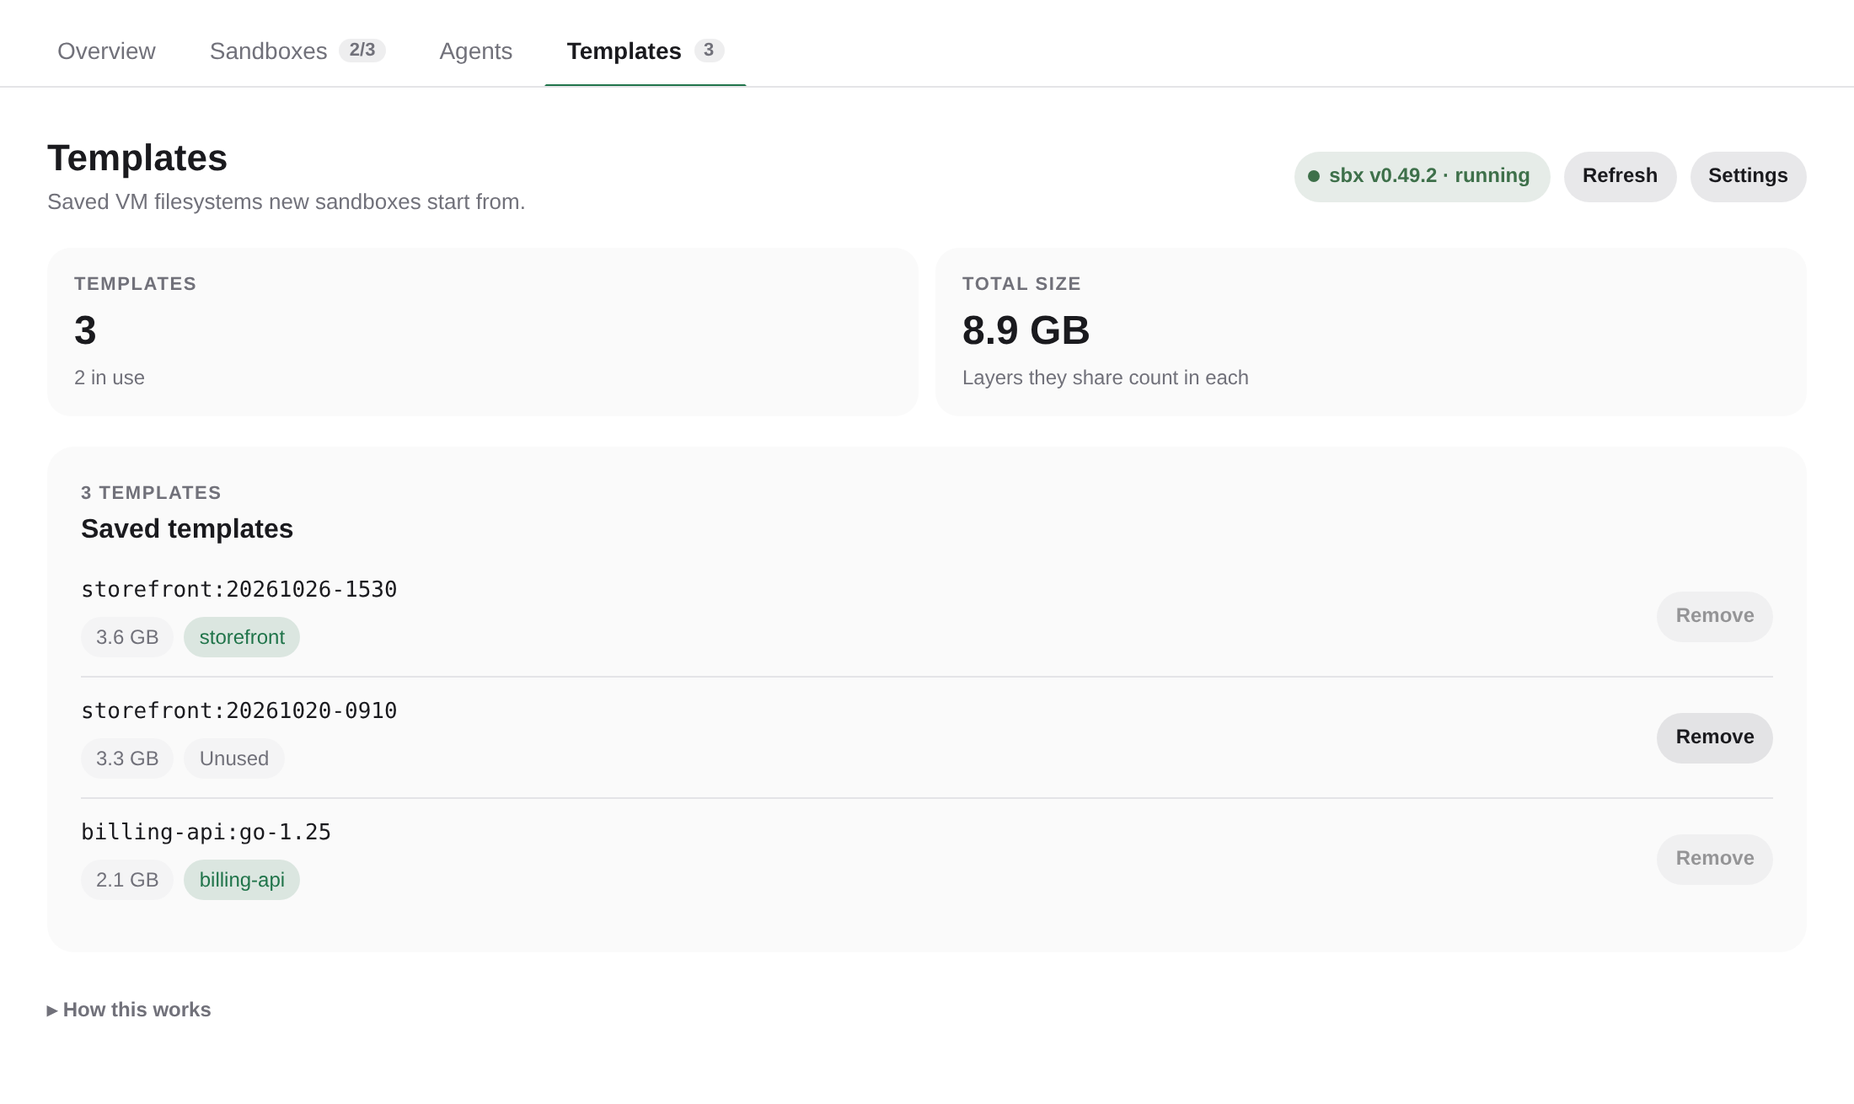
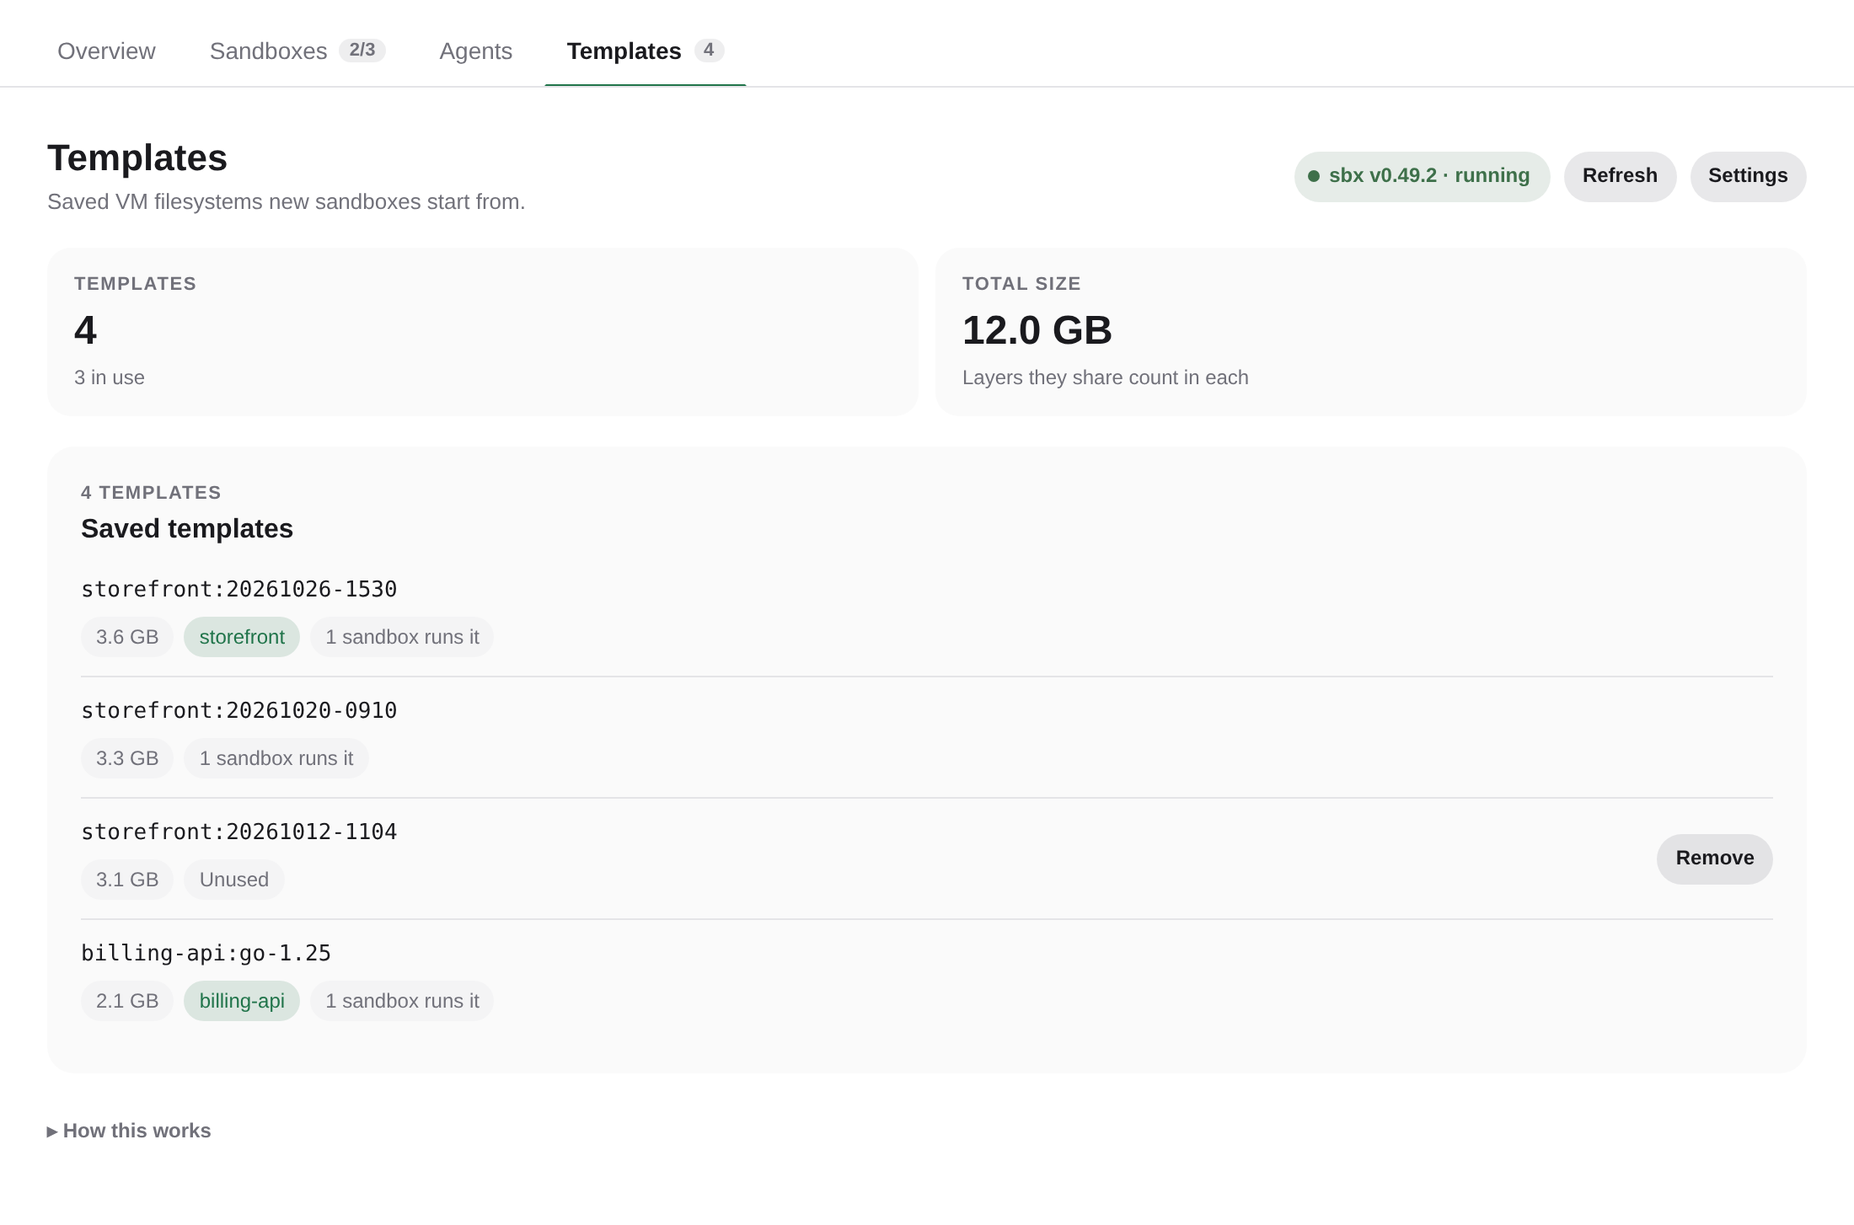
Remove old template versions from the Template tab
Each template nothing uses gets a Remove button in the workspace panel's
Template tab and in the Docker Sandboxes screen's Templates tab. A template
is in use when a setting picks it or an existing sandbox was created from
it: templates.list reports those sandboxes, and template.remove now refuses
them too, since what sbx does to a sandbox whose template is gone is
unverified.

diff --git a/client/panel-template.tsx b/client/panel-template.tsx
@@ -28,6 +28,7 @@ import {
   useAwaitOperation,
   useInvalidateAll,
   useOpenTerminal,
+  useRemoveTemplate,
   useRepoSettings,
   useSandboxAction,
   useSaveTemplate,
@@ -46,37 +47,57 @@ function defaultTag(repoName: string): string {
   return `${slug}:${stamp}`;
 }
 
-/** Who picks a template: the default for every repository, and repositories of their own. */
-function usage(users: readonly string[]): string {
-  const repos = users.filter((user) => user !== "default").length;
+type TemplateSummary = NonNullable<ReturnType<typeof useTemplates>["data"]>["templates"][number];
+
+/** What keeps a template: settings that pick it, and sandboxes created from it. */
+function usage(template: TemplateSummary, data: PanelTabProps["data"]): string {
+  const otherRepos = template.users.filter((user) => user !== "default" && user !== data.repoKey).length;
+  const otherSandboxes = template.sandboxes.filter((name) => name !== data.name).length;
   const parts = [
-    users.includes("default") ? "the default" : null,
-    repos > 0 ? `used by ${plural(repos, "repository", "repositories")}` : null,
+    template.users.includes(data.repoKey) ? "used by this repository" : null,
+    template.users.includes("default") ? "the default" : null,
+    otherRepos > 0 ? `used by ${plural(otherRepos, "other repository", "other repositories")}` : null,
+    template.sandboxes.includes(data.name) ? "this sandbox runs it" : null,
+    otherSandboxes > 0
+      ? `${plural(otherSandboxes, "other sandbox", "other sandboxes")} ${otherSandboxes === 1 ? "runs" : "run"} it`
+      : null,
   ].filter(Boolean);
-  return parts.length > 0 ? parts.join(", ") : "unused";
+  return parts.length > 0 ? parts.join(" · ") : "unused";
 }
+
+/** Nothing picks it and no sandbox runs it: the server removes only those. */
+const removable = (template: TemplateSummary) => template.users.length === 0 && template.sandboxes.length === 0;
 
 export function TemplateTab({ data, theme, compact, header, workspaceId, directory }: PanelTabProps) {
   const templates = useTemplates();
+  const remove = useRemoveTemplate();
   const { repo, save, settings } = useRepoSettings(data.repoKey);
   const [selectError, setSelectError] = useState<string | null>(null);
   const globalTemplate = settings.status === "ready" ? settings.values.template : "";
   const custom = (templates.data?.templates ?? []).filter((template) => !template.base);
-  const choices = [
+  const choices: { value: string; title: string; detail: string; removable: boolean }[] = [
     {
       value: "",
       title: globalTemplate ? `Default · ${shortRef(globalTemplate)}` : "Default · sbx image",
       detail: "What the plugin settings pick for every repository",
+      removable: false,
     },
     ...custom.map((template) => ({
       value: template.ref,
       title: shortRef(template.ref),
-      detail: [formatBytes(template.sizeBytes), usage(template.users)].join(" · "),
+      detail: [formatBytes(template.sizeBytes), usage(template, data)].join(" · "),
+      removable: removable(template),
     })),
   ];
   if (repo?.template && !choices.some((choice) => choice.value === repo.template)) {
-    choices.push({ value: repo.template, title: shortRef(repo.template), detail: "Missing: sbx no longer has it" });
+    choices.push({
+      value: repo.template,
+      title: shortRef(repo.template),
+      detail: "Missing: sbx no longer has it",
+      removable: false,
+    });
   }
+  const keptBySandbox = custom.some((template) => template.users.length === 0 && template.sandboxes.length > 0);
 
   return (
     <Frame
@@ -89,6 +110,7 @@ export function TemplateTab({ data, theme, compact, header, workspaceId, directo
         "A template is a saved VM filesystem: the tools and CLIs your agents need. It carries the CLIs of the agents it was prepared with, so a workspace running Claude and Codex needs a template with both.",
         "Templates do not include the images of the VM's own Docker: each new sandbox pulls them again.",
         "Every worktree of the repository shares its template.",
+        "Remove appears on templates nothing uses: no setting picks them and no sandbox was created from them.",
       ]}
     >
       <Section theme={theme} overline="Every worktree of the repository" title="Template for this repository">
@@ -118,6 +140,19 @@ export function TemplateTab({ data, theme, compact, header, workspaceId, directo
                 title={choice.title}
                 detail={choice.detail}
                 selected={repo.template === choice.value}
+                action={
+                  choice.removable ? (
+                    <ConfirmButton
+                      theme={theme}
+                      small
+                      label="Remove"
+                      confirmLabel="Confirm remove"
+                      busy={remove.isPending && remove.variables === choice.value}
+                      disabled={remove.isPending}
+                      onConfirm={() => remove.mutate(choice.value)}
+                    />
+                  ) : null
+                }
                 onPress={() => {
                   if (repo.template === choice.value) return;
                   setSelectError(null);
@@ -127,9 +162,19 @@ export function TemplateTab({ data, theme, compact, header, workspaceId, directo
             ))}
           </View>
         ) : null}
+        {keptBySandbox ? (
+          <Note theme={theme}>
+            A template a sandbox was created from can be removed once that sandbox is recreated or removed.
+          </Note>
+        ) : null}
         {templates.error ? (
           <Note theme={theme} tone="danger">
             {errorMessage(templates.error)}
+          </Note>
+        ) : null}
+        {remove.error ? (
+          <Note theme={theme} tone="danger">
+            {errorMessage(remove.error)}
           </Note>
         ) : null}
         {selectError ? (

diff --git a/client/sandboxes-screen.tsx b/client/sandboxes-screen.tsx
@@ -236,7 +236,7 @@ export function SandboxesScreen({ theme, layout, openSettings }: SandboxesScreen
               {...header}
               notes={[
                 "Prepare a template from a workspace's Sandbox panel: it opens a shell in a clean sandbox, then saves it.",
-                "A template in use by the default or by a repository cannot be removed: pick another first.",
+                "Remove appears on templates nothing uses. One the default or a repository picks needs another picked first; one a sandbox was created from needs that sandbox recreated or removed.",
               ]}
             >
               <TemplateList
@@ -843,7 +843,7 @@ function TemplateList({
           theme={theme}
           label="Templates"
           value={String(templates.length)}
-          detail={`${templates.filter((template) => template.users.length > 0).length} in use`}
+          detail={`${templates.filter((template) => template.users.length > 0 || template.sandboxes.length > 0).length} in use`}
         />
         <Stat theme={theme} label="Total size" value={formatBytes(total)} detail="Layers they share count in each" />
       </Figures>
@@ -860,30 +860,36 @@ function TemplateList({
               detail={
                 <View style={{ flexDirection: "row", flexWrap: "wrap", gap: 6, marginTop: 4 }}>
                   <Pill theme={theme} label={formatBytes(template.sizeBytes)} />
-                  {template.users.length === 0 ? (
-                    <Pill theme={theme} label="Unused" />
-                  ) : (
-                    template.users.map((user) => (
-                      <Pill
-                        key={user}
-                        theme={theme}
-                        tone="accent"
-                        label={user === "default" ? "Default" : baseName(repoPath(user))}
-                      />
-                    ))
-                  )}
+                  {template.users.map((user) => (
+                    <Pill
+                      key={user}
+                      theme={theme}
+                      tone="accent"
+                      label={user === "default" ? "Default" : baseName(repoPath(user))}
+                    />
+                  ))}
+                  {template.sandboxes.length > 0 ? (
+                    <Pill
+                      theme={theme}
+                      label={`${plural(template.sandboxes.length, "sandbox", "sandboxes")} ${template.sandboxes.length === 1 ? "runs" : "run"} it`}
+                    />
+                  ) : null}
+                  {template.users.length === 0 && template.sandboxes.length === 0 ? <Pill theme={theme} label="Unused" /> : null}
                 </View>
               }
               aside={
-                <ConfirmButton
-                  theme={theme}
-                  small
-                  label="Remove"
-                  confirmLabel="Confirm remove"
-                  busy={remove.isPending && remove.variables === template.ref}
-                  disabled={remove.isPending || template.users.length > 0}
-                  onConfirm={() => remove.mutate(template.ref)}
-                />
+                // Only what nothing uses: no setting picks it and no sandbox runs it.
+                template.users.length === 0 && template.sandboxes.length === 0 ? (
+                  <ConfirmButton
+                    theme={theme}
+                    small
+                    label="Remove"
+                    confirmLabel="Confirm remove"
+                    busy={remove.isPending && remove.variables === template.ref}
+                    disabled={remove.isPending}
+                    onConfirm={() => remove.mutate(template.ref)}
+                  />
+                ) : null
               }
             />
           ))}

diff --git a/server/templates.ts b/server/templates.ts
@@ -8,7 +8,7 @@ import type { PluginPaths } from "./paths";
 import { repoIdentity } from "./repo";
 import { SbxError, assertSandboxName, listSandboxes, removeSandbox, runSbx, runSbxOk, stopSandboxLocked } from "./sbx";
 import { templateFor } from "./spec-builder";
-import { liveLeases, writeSandboxState } from "./state";
+import { liveLeases, readSandboxState, writeSandboxState } from "./state";
 
 export interface TemplateInfo {
   /** `repository:tag` as `sbx template ls` reports it. */
@@ -60,6 +60,20 @@ export function templateUsers(settings: SandboxSettings, ref: string): string[] 
 }
 
 /**
+ * Existing sandboxes created from a template: by the image ID they recorded, else (preparation
+ * sandboxes, older records) by its reference.
+ */
+export function templateSandboxes(paths: PluginPaths, sandboxNames: readonly string[], template: TemplateInfo): string[] {
+  return sandboxNames.filter((name) => {
+    const state = readSandboxState(paths, name);
+    if (!state?.template) return false;
+    return state.templateImageId
+      ? state.templateImageId === template.id
+      : normalizeTemplateRef(state.template) === template.ref;
+  });
+}
+
+/**
  * Saves the sandbox's filesystem as a template in the Paseo instance; returns its reference.
  * sbx saves only a stopped sandbox (it asks to stop a running one, and without a terminal that
  * question fails), so the sandbox is stopped first, shutting its Docker down cleanly. Stopping
@@ -88,9 +102,21 @@ export async function saveTemplate(paths: PluginPaths, name: string, tag: string
 
 const ANSI = /\x1b\[[0-9;?]*[A-Za-z]/g;
 
+/**
+ * Removes a template nothing uses: no setting picks it and no existing sandbox was created from
+ * it. What sbx does to a sandbox whose template is gone is unverified, so the plugin does not try.
+ */
 export async function removeTemplate(paths: PluginPaths, settings: SandboxSettings, ref: string): Promise<void> {
   const users = templateUsers(settings, ref);
   if (users.length > 0) throw new Error(`${ref} is in use (${users.join(", ")}); pick another template there first`);
+  const template = findTemplate(await listTemplates(paths), ref);
+  if (template) {
+    const sandboxes = templateSandboxes(paths, (await listSandboxes(paths)).map((sandbox) => sandbox.name), template);
+    if (sandboxes.length > 0) {
+      const one = sandboxes.length === 1;
+      throw new Error(`${ref} is what ${sandboxes.join(", ")} ${one ? "was" : "were"} created from; recreate or remove ${one ? "it" : "them"} first`);
+    }
+  }
   await runSbxOk(paths, ["template", "rm", "--force", ref], `sbx template rm ${ref}`);
 }
 

diff --git a/tests/operations.test.ts b/tests/operations.test.ts
@@ -12,7 +12,7 @@ import { recreateSandbox } from "../server/recreate";
 import { publishPort, readListeners, unpublishPort } from "../server/ports";
 import { listSandboxes, prepareSandbox, stopSandbox } from "../server/sbx";
 import { buildSpec } from "../server/spec-builder";
-import { processStart, readSandboxState } from "../server/state";
+import { processStart, readSandboxState, writeSandboxState } from "../server/state";
 import { ensureTemplatePrep, finishTemplatePrep, removeTemplate, saveTemplate } from "../server/templates";
 import { installFakeSbx, type FakeSbx } from "./fake-sbx";
 
@@ -238,6 +238,31 @@ describe("templates", () => {
     await expect(removeTemplate(paths, inUse, "docker.io/library/app:v1")).rejects.toThrow("is in use (git:/r/.git)");
     await removeTemplate(paths, sandboxSettingsSchema.parse({}), "docker.io/library/app:v1");
     expect(fake.calls().some((call) => call.args.join(" ") === "template rm --force docker.io/library/app:v1")).toBe(true);
+  });
+
+  it("will not remove a template an existing sandbox was created from", async () => {
+    const working = "paseo-app-0000000a";
+    const prep = "paseo-tpl-app-0000000b";
+    fake.setState({
+      sandboxes: [working, prep],
+      templates: [
+        { id: "abc", repository: "docker.io/library/app", tag: "v1" },
+        { id: "def", repository: "docker.io/library/app", tag: "v2" },
+        { id: "fed", repository: "docker.io/library/app", tag: "v0" },
+      ],
+    });
+    // The working sandbox recorded its image ID; the preparation sandbox only the reference.
+    writeSandboxState(paths, working, { template: "docker.io/library/app:v1", templateImageId: "abc" });
+    writeSandboxState(paths, prep, { kind: "template-prep", template: "app:v2" });
+    // A record left behind by a sandbox that is gone does not count.
+    writeSandboxState(paths, "paseo-app-0000000c", { template: "docker.io/library/app:v0", templateImageId: "fed" });
+    const none = sandboxSettingsSchema.parse({});
+
+    await expect(removeTemplate(paths, none, "docker.io/library/app:v1")).rejects.toThrow(`is what ${working} was created from`);
+    await expect(removeTemplate(paths, none, "app:v2")).rejects.toThrow(`is what ${prep} was created from`);
+    expect(fake.calls().some((call) => call.args[1] === "rm")).toBe(false);
+    await removeTemplate(paths, none, "docker.io/library/app:v0");
+    expect(fake.calls().some((call) => call.args.join(" ") === "template rm --force docker.io/library/app:v0")).toBe(true);
   });
 
   it("prepares a clean sandbox per repository, reuses it, and removes it once saved", async () => {

diff --git a/client/kit.tsx b/client/kit.tsx
@@ -611,17 +611,20 @@ export function SwitchRow({
   );
 }
 
-/** One choice of a list, ringed in the accent when selected. */
+/**
+ * One choice of a list, ringed in the accent when selected. `action` sits at its right edge but
+ * outside the choice itself, so it presses on its own and is not read as part of the radio.
+ */
 export function Choice({
   title,
   detail,
-  aside,
+  action,
   selected,
   onPress,
   theme,
-}: ThemeProps & { title: string; detail?: string | null; aside?: ReactNode; selected: boolean; onPress(): void }) {
+}: ThemeProps & { title: string; detail?: string | null; action?: ReactNode; selected: boolean; onPress(): void }) {
   const accent = toneColor(theme, "accent");
-  return (
+  const tile = (
     <Pressable
       accessibilityRole="radio"
       accessibilityLabel={title}
@@ -632,7 +635,9 @@ export function Choice({
         alignItems: "center",
         gap: 12,
         paddingVertical: 12,
-        paddingHorizontal: 14,
+        paddingLeft: 14,
+        // Room for the action, armed included ("Confirm remove").
+        paddingRight: action ? 136 : 14,
         borderRadius: 12,
         borderWidth: 1.5,
         borderColor: selected ? accent : "transparent",
@@ -662,8 +667,14 @@ export function Choice({
         </Text>
         {detail ? <Text style={text(theme, 12, "400", true)}>{detail}</Text> : null}
       </View>
-      {aside}
     </Pressable>
+  );
+  if (!action) return tile;
+  return (
+    <View>
+      {tile}
+      <View style={{ position: "absolute", top: 0, bottom: 0, right: 12, justifyContent: "center" }}>{action}</View>
+    </View>
   );
 }
 

diff --git a/server/handlers.ts b/server/handlers.ts
@@ -41,6 +41,7 @@ import {
   listTemplates,
   removeTemplate,
   saveTemplate,
+  templateSandboxes,
   templateUsers,
   type TemplateInfo,
 } from "./templates";
@@ -262,8 +263,15 @@ export function registerHandlers(server: PluginServerContext, deps: ServerDeps):
 
   server.handle(listTemplatesRpc, async () => {
     const settings = await deps.readSettings();
-    const templates = await listTemplates(paths);
-    return { templates: templates.map((template) => ({ ...template, users: templateUsers(settings, template.ref) })) };
+    const [templates, sandboxes] = await Promise.all([listTemplates(paths), listSandboxes(paths)]);
+    const names = sandboxes.map((sandbox) => sandbox.name);
+    return {
+      templates: templates.map((template) => ({
+        ...template,
+        users: templateUsers(settings, template.ref),
+        sandboxes: templateSandboxes(paths, names, template),
+      })),
+    };
   });
 
   server.handle(saveTemplateRpc, ({ name, tag }) =>

diff --git a/shared/rpc.ts b/shared/rpc.ts
@@ -258,6 +258,8 @@ const templateSchema = z.object({
   base: z.boolean(),
   /** "default" and repo keys whose settings select it. */
   users: z.array(z.string()),
+  /** Existing sandboxes created from it. Removing it needs both lists empty. */
+  sandboxes: z.array(z.string()),
 });
 export type TemplateSummary = z.infer<typeof templateSchema>;
 

diff --git a/README.md b/README.md
@@ -14,7 +14,7 @@ A panel beside each workspace, in tabs. Each tab's badge counts what it holds, o
 
 - **Overview**: the sandbox's status, memory in use against its limit, CPUs and template, with **Open shell**, **Stop**, **Recreate** and **Remove**. Below is what needs you, each item opening the tab that fixes it: a template, resources or mounts that changed since the sandbox was created, a GSD Path member without a checkout, a variable without a value, a port that could not be published, a failed operation. Then the agents running in the sandbox, with **Open** and **Archive**.
 - **Services**: the ports listening in the VM and the ones published on the host, with the host address of each. Publish a port on `127.0.0.1` or every host address, on a port you pick or a free one, and keep it published for every sandbox of the repository.
-- **Template**: which template the repository's sandboxes start from, and a guided preparation: a shell in a clean sandbox to install your tools, then save it as a template.
+- **Template**: which template the repository's sandboxes start from, with **Remove** on old versions nothing uses, and a guided preparation: a shell in a clean sandbox to install your tools, then save it as a template.
 - **Resources**: memory and CPUs for the repository's sandboxes.
 - **Mounts**: every host folder the sandbox sees, where it comes from and whether it waits for a recreation; the repository's own mounts, added one at a time; and the GSD Path members.
 - **Variables**: the host variables forwarded to sessions, whether each has a value, and the repository's own.
@@ -32,7 +32,7 @@ Opened from the sidebar, for every sandbox at once.
 - **Overview**: the memory the VMs hold against the host's, with available RAM, swap and memory pressure, and an alert past the thresholds you set. Then what needs you and the agents that keep each VM running, biggest first, with **Archive**.
 - **Sandboxes**: every VM the plugin created, grouped into workspaces, template preparations and agent catalogs, with **Stop** and **Remove**.
 - **Agents**: Claude and Codex, each with its CLI version, catalog sandbox, provider and login, the command that stores its login, and **Configure** or **Update**.
-- **Templates**: the saved templates, their size and the repositories that use them.
+- **Templates**: the saved templates, their size, the repositories and sandboxes that use them, and **Remove** for the ones nothing uses.
 
 | Overview | Sandboxes |
 | --- | --- |
